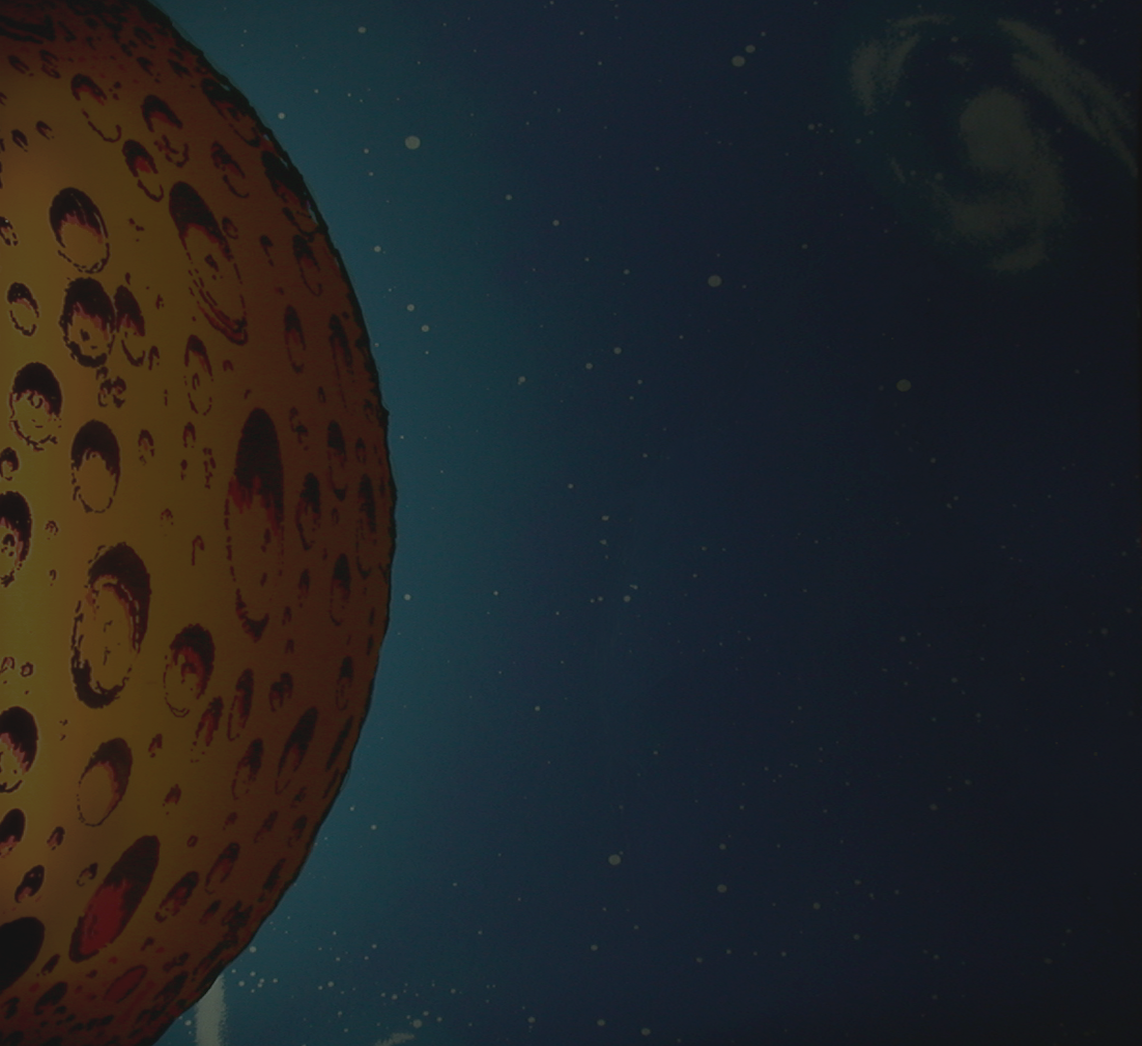
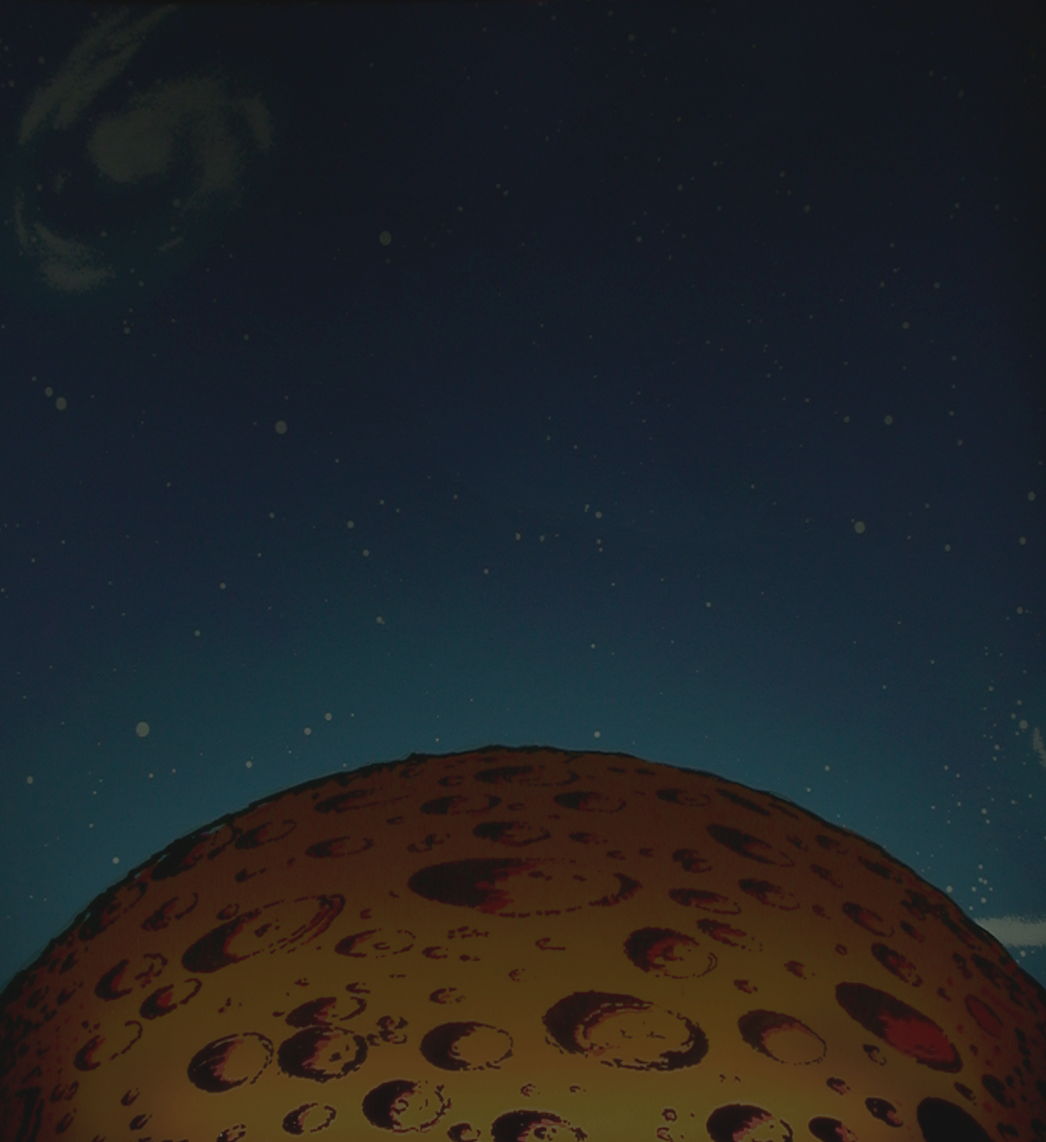
nuevo background

diff --git a/css/main.css b/css/main.css
@@ -5,18 +5,19 @@ body {
 
 h1 {
   font-family: "Pixel Emulator";
-  font-size: 100px;
-  color: #733;
+  font-size: 70px;
+  color: #700;
   text-shadow: 5px 2px #AA0;
-  text-align: center;
-  padding-top: 100px;
+  text-align: left;
+  padding-top: 40px;
+  padding-left: 40px;
   margin: 0;
 }
 
 h2 {
   font-family: "Pixel Emulator";
   font-size: 80px;
-  color: #733;
+  color: #700;
   text-shadow: 5px 2px #AA0;
   text-align: center;
   padding-top: 100px;
@@ -26,11 +27,25 @@ h2 {
 h3 {
   font-family: "Pixel Emulator";
   font-size: 50px;
-  color: #733;
+  color: #700;
   text-shadow: 5px 2px #AA0;
   text-align: center;
   padding-top: 100px;
   margin: 0;
+}
+
+#firstdiv{
+  background: url("../img/giphy.gif");
+  background-size: cover;
+  background-position: center;
+  /*background: url("../img/background.jpg");*/
+  height: 600px;
+  width: 800px;
+  position: relative;
+  left: 320px;
+  top: 60px;
+  border: 2px solid yellow;
+  border-radius: 20%;
 }
 
 #space-invaders{
@@ -155,11 +170,11 @@ hr {
 #btn {
   font-family: "Pixel Emulator";
   position: absolute;
-  top: 30vw;
-  left: 45vw;
+  top: 200px;
+  left: 40px;
   width: 160px;
   height: 120px;
-  background: rgba(0, 0, 0, 0.50);
+  background: rgba(0, 0, 0, 0.80);
   color: #FBB;
   font-size: 25px;
 }
@@ -239,6 +254,12 @@ hr {
   top: 100px;
   left: 250px;
   z-index: 1;
+  text-align: center;
+}
+
+.gameOverMessage {
+  font-size: 110px;
+  top: 300px;
   text-align: center;
 }
 

diff --git a/js/spaceInvaders.js b/js/spaceInvaders.js
@@ -9,8 +9,7 @@ function Game (){
 }
 
 Game.prototype.createGame = function (){
-  $("button").remove();
-  $("h1").remove();
+  $('#firstdiv').remove();
   $("#game-over").remove();
   $("<audio autoplay='autoplay' loop='true'>").html("<source src='./music/Space Invaders - Space Invaders.mp3'/>");
   $("<header>").appendTo("#space-invaders");
@@ -89,6 +88,6 @@ Game.prototype.youWin = function() {
 Game.prototype.gameOver = function(invadersPos) {
   $('#space-invaders').addClass("opacity");
   $('<div>', {"id": "game-over"}).appendTo("html");
-  $('<h1>').html("GAME OVER").appendTo("#game-over");
+  $('<h2>').addClass("gameOverMessage").html("GAME OVER").appendTo("#game-over");
   $('<h3>').html("YOUR SCORE: " + this.score).appendTo("#game-over");
 };

diff --git a/spaceInvaders.html b/spaceInvaders.html
@@ -19,15 +19,15 @@
 
 <body>
 
-<div id="masterId">
   <div id="space-invaders">
 
+  <div id="firstdiv">
     <h1>space<br>invaders</h1>
     <button id="btn" type="button" name="Start">Start New Game</button>
+  </div>
 
   </div>
 
-</div>
 </body>
 
 </html>
